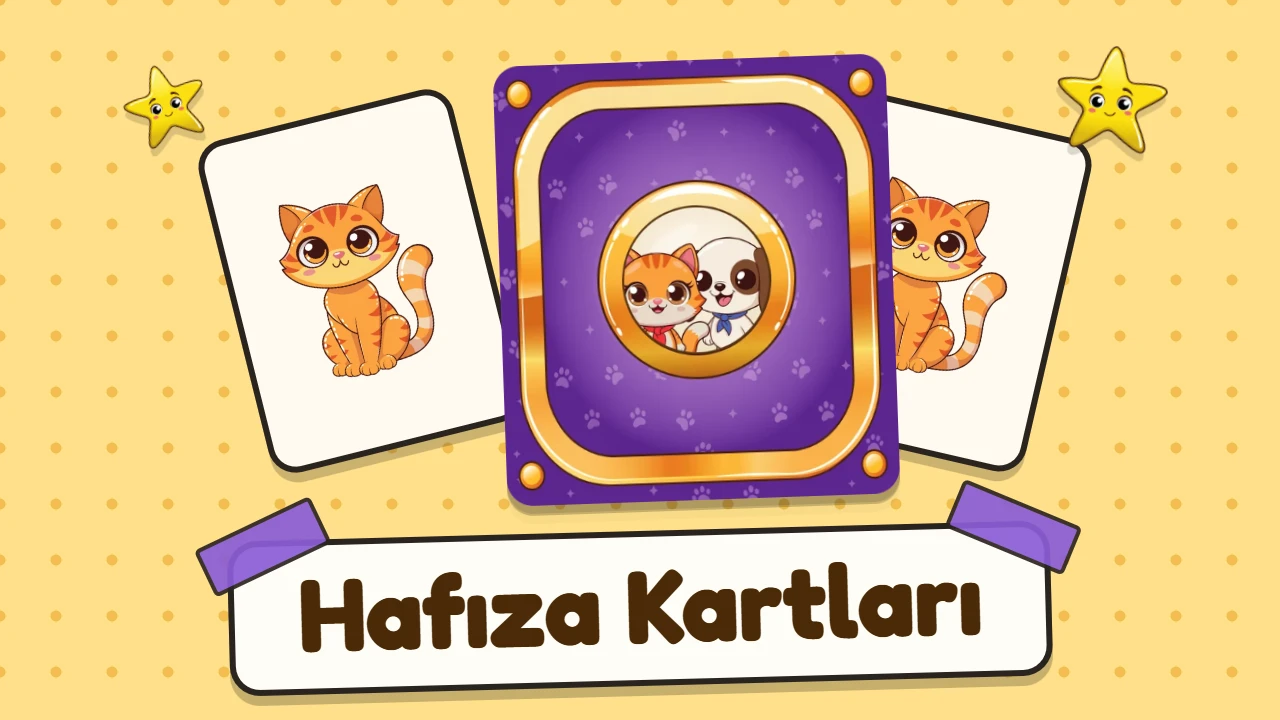
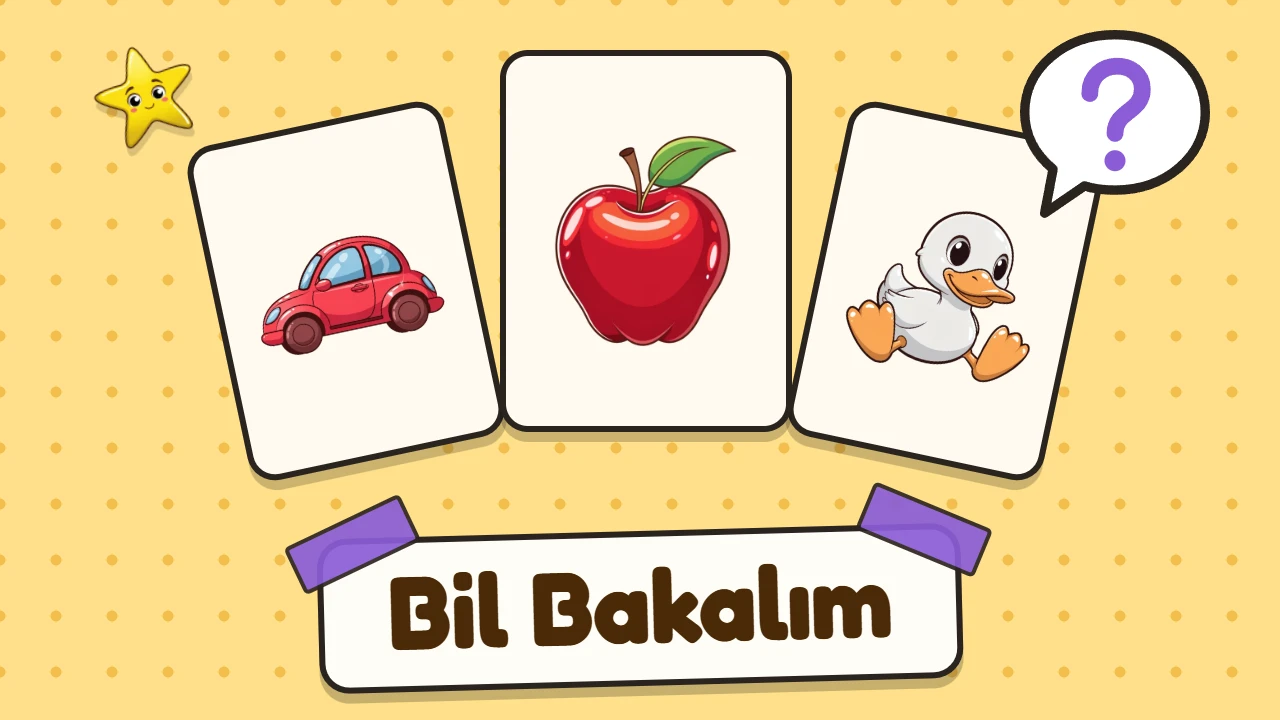
Etkinlikler: Okula Hazirlanalim ve Bil Bakalim adlari, yeni Bil Bakalim ve Sesli Maceralar kapaklari

diff --git a/hazirlik/index.html b/hazirlik/index.html
@@ -1,1 +1,1 @@
-<!doctype html><html lang="tr"><head><meta charset="utf-8"><meta name="viewport" content="width=device-width, initial-scale=1, viewport-fit=cover"><meta name="theme-color" content="#f6ce9b"><title>Hadi Hazırlanalım · Minkino</title></head><body><main id="oyun" aria-label="Hadi Hazırlanalım"><div id="fon"></div><div id="sahne"></div><nav id="kontrol"></nav></main><script type="module" src="./src/main.ts"></script></body></html>
+<!doctype html><html lang="tr"><head><meta charset="utf-8"><meta name="viewport" content="width=device-width, initial-scale=1, viewport-fit=cover"><meta name="theme-color" content="#f6ce9b"><title>Okula Hazırlanalım · Minkino</title></head><body><main id="oyun" aria-label="Okula Hazırlanalım"><div id="fon"></div><div id="sahne"></div><nav id="kontrol"></nav></main><script type="module" src="./src/main.ts"></script></body></html>

diff --git a/uygulama/src/oyunlar.ts b/uygulama/src/oyunlar.ts
@@ -54,10 +54,10 @@ export interface OyunKarti {
 
 export const OYUNLAR: OyunKarti[] = [
   { id: 'kino-ile-sen-sec', ad: 'Kino’yla Sen Seç', adres: './kino-ile-sen-sec/', renk: '#FFCE56', zemin: 'kino-ile-sen-sec/kapak', katmanlar: [] },
-  { id: 'hazirlik', ad: 'Hadi Hazırlanalım', adres: './hazirlik/', renk: '#70BDAF', zemin: 'hazirlik/kapak', katmanlar: [] },
+  { id: 'hazirlik', ad: 'Okula Hazırlanalım', adres: './hazirlik/', renk: '#70BDAF', zemin: 'hazirlik/kapak', katmanlar: [] },
   {
     id: 'kartlar',
-    ad: 'Hafıza Kartları',
+    ad: 'Bil Bakalım',
     adres: './kartlar/',
     renk: '#FFC72C',
     rozet: 'Hafıza',

diff --git a/ORTAK_NOTLAR.md b/ORTAK_NOTLAR.md
@@ -500,3 +500,5 @@ Kullanıcı: Bilgisayar sıfırlandı; yerel eski çizimler güncel değil. Kara
 - 2026-11-10 (Claude): Paket 361 MB olmuştu. Kino yla Sen Seç çizimleri pakete kayıplı webp girer (kino-ile-sen-sec/paket.ts, 159 MB -> 25 MB, piksel boyutu aynı). Android release AAB de sesler install-time paket android/sesler (android.yml taşır); temel paket ~165 MB. Pastalı yaş ekranı Barış beğenmedi, geri alındı.
 
 - 2026-11-10 (Claude): Etkinlik kapakları yeni stil (noktalı defter zemin, altta bantlı etiket; scripts/uygulama/etkinlik-kapaklari.mjs). Oyun kapaklarında logolar büyütüldü (scripts/uygulama/oyun-kapaklari.mjs, Astra katmanlarından). Kino Okula Başlıyor raftan ve menüden kalktı (gizli: true; çizimleri öbür kitapların yedeği, dosyalar duruyor). Menü genişlik sınırı kalktı.
+
+- 2026-11-10 (Claude): Adlar: Hadi Hazırlanalım -> Okula Hazırlanalım, Kartlar -> Bil Bakalım. Bil Bakalım ve Sesli Maceralar kapakları yenilendi (düz gerçek kartlar; kulaklık ve notalar).
